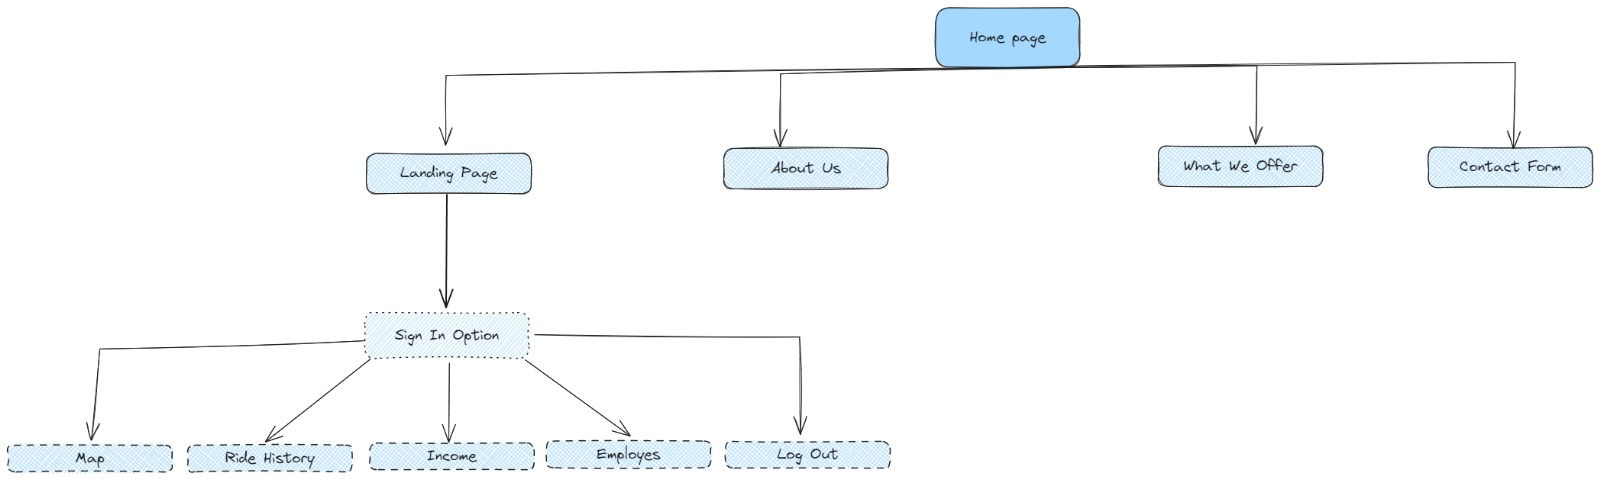
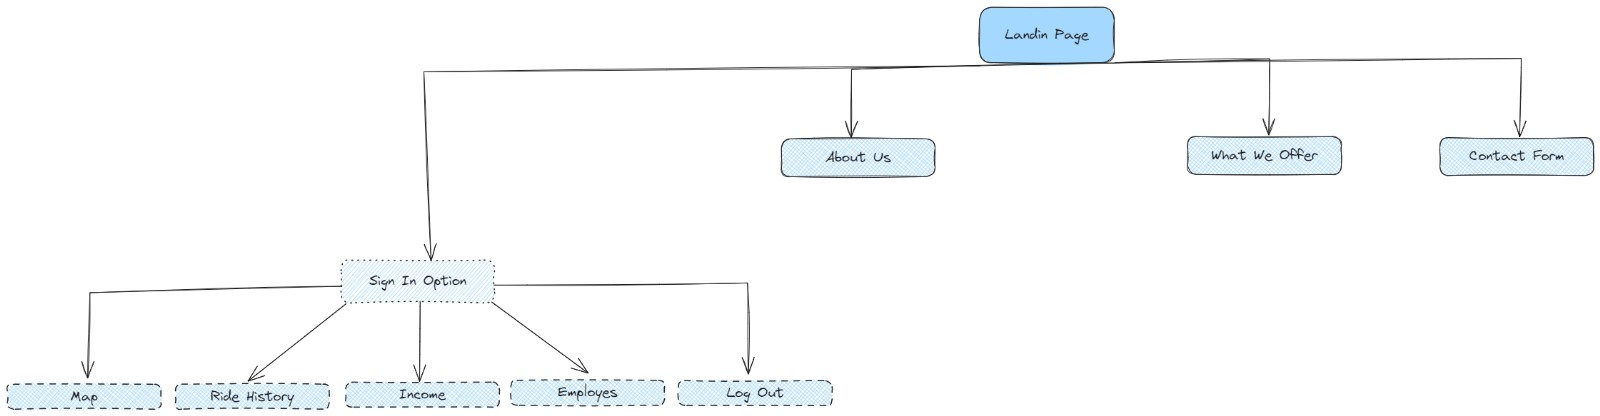
Changed sitemap and added Information Architecture and Card Sorting section in README

diff --git a/assignments/User personas and information architecture/README.md b/assignments/User personas and information architecture/README.md
@@ -2,9 +2,17 @@
 
 ## **Assignment Description**
 
-- Create a simple responsive hero section in Figma; elements/components in your Figma frame should nicely behave as you resize the corresponding parent frame.
-- The hero section will include a menu. Make menu items a Figma component.
-- Use auto-layout, auto-spacing, constraints features.
+### **Create User Personas**
+
+Create a set of user personas (3) relevant to a specific project. Do not forget to include AI generated photo for your personas.
+
+### **Information Architecture**
+
+Develop an information architecture for your project based on the card sorting method.
+
+### **Create a Sitemap**
+
+Based on the combined categories from card sorting, design a detailed sitemap for your web application. Clearly display the structure and hierarchy of the information on your site.
 
 ## Our work
 
@@ -24,6 +32,35 @@
     
     ![OnTheGoMom.jpg](OnTheGoMom.jpg)
     
+
+### **Information Architecture and Card Sorting**
+
+**Landing page**
+
+- Sign In
+- About Us
+- What we offer
+- Contact form
+- Footer
+
+**Sign In**
+
+- Map
+    - Map type
+    - Night mode
+    - “Pick a driver” option
+    - Map controls
+- Ride history
+    - Rides per taxi vehicle
+    - Rides per taxi driver
+- Income
+    - Total income (for one year by default)
+    - Monthly income
+    - Today’s income (per driver)
+- Employees
+    - Modify employee details
+    - Driver status
+- Log Out
 
 ### Sitemap
 
